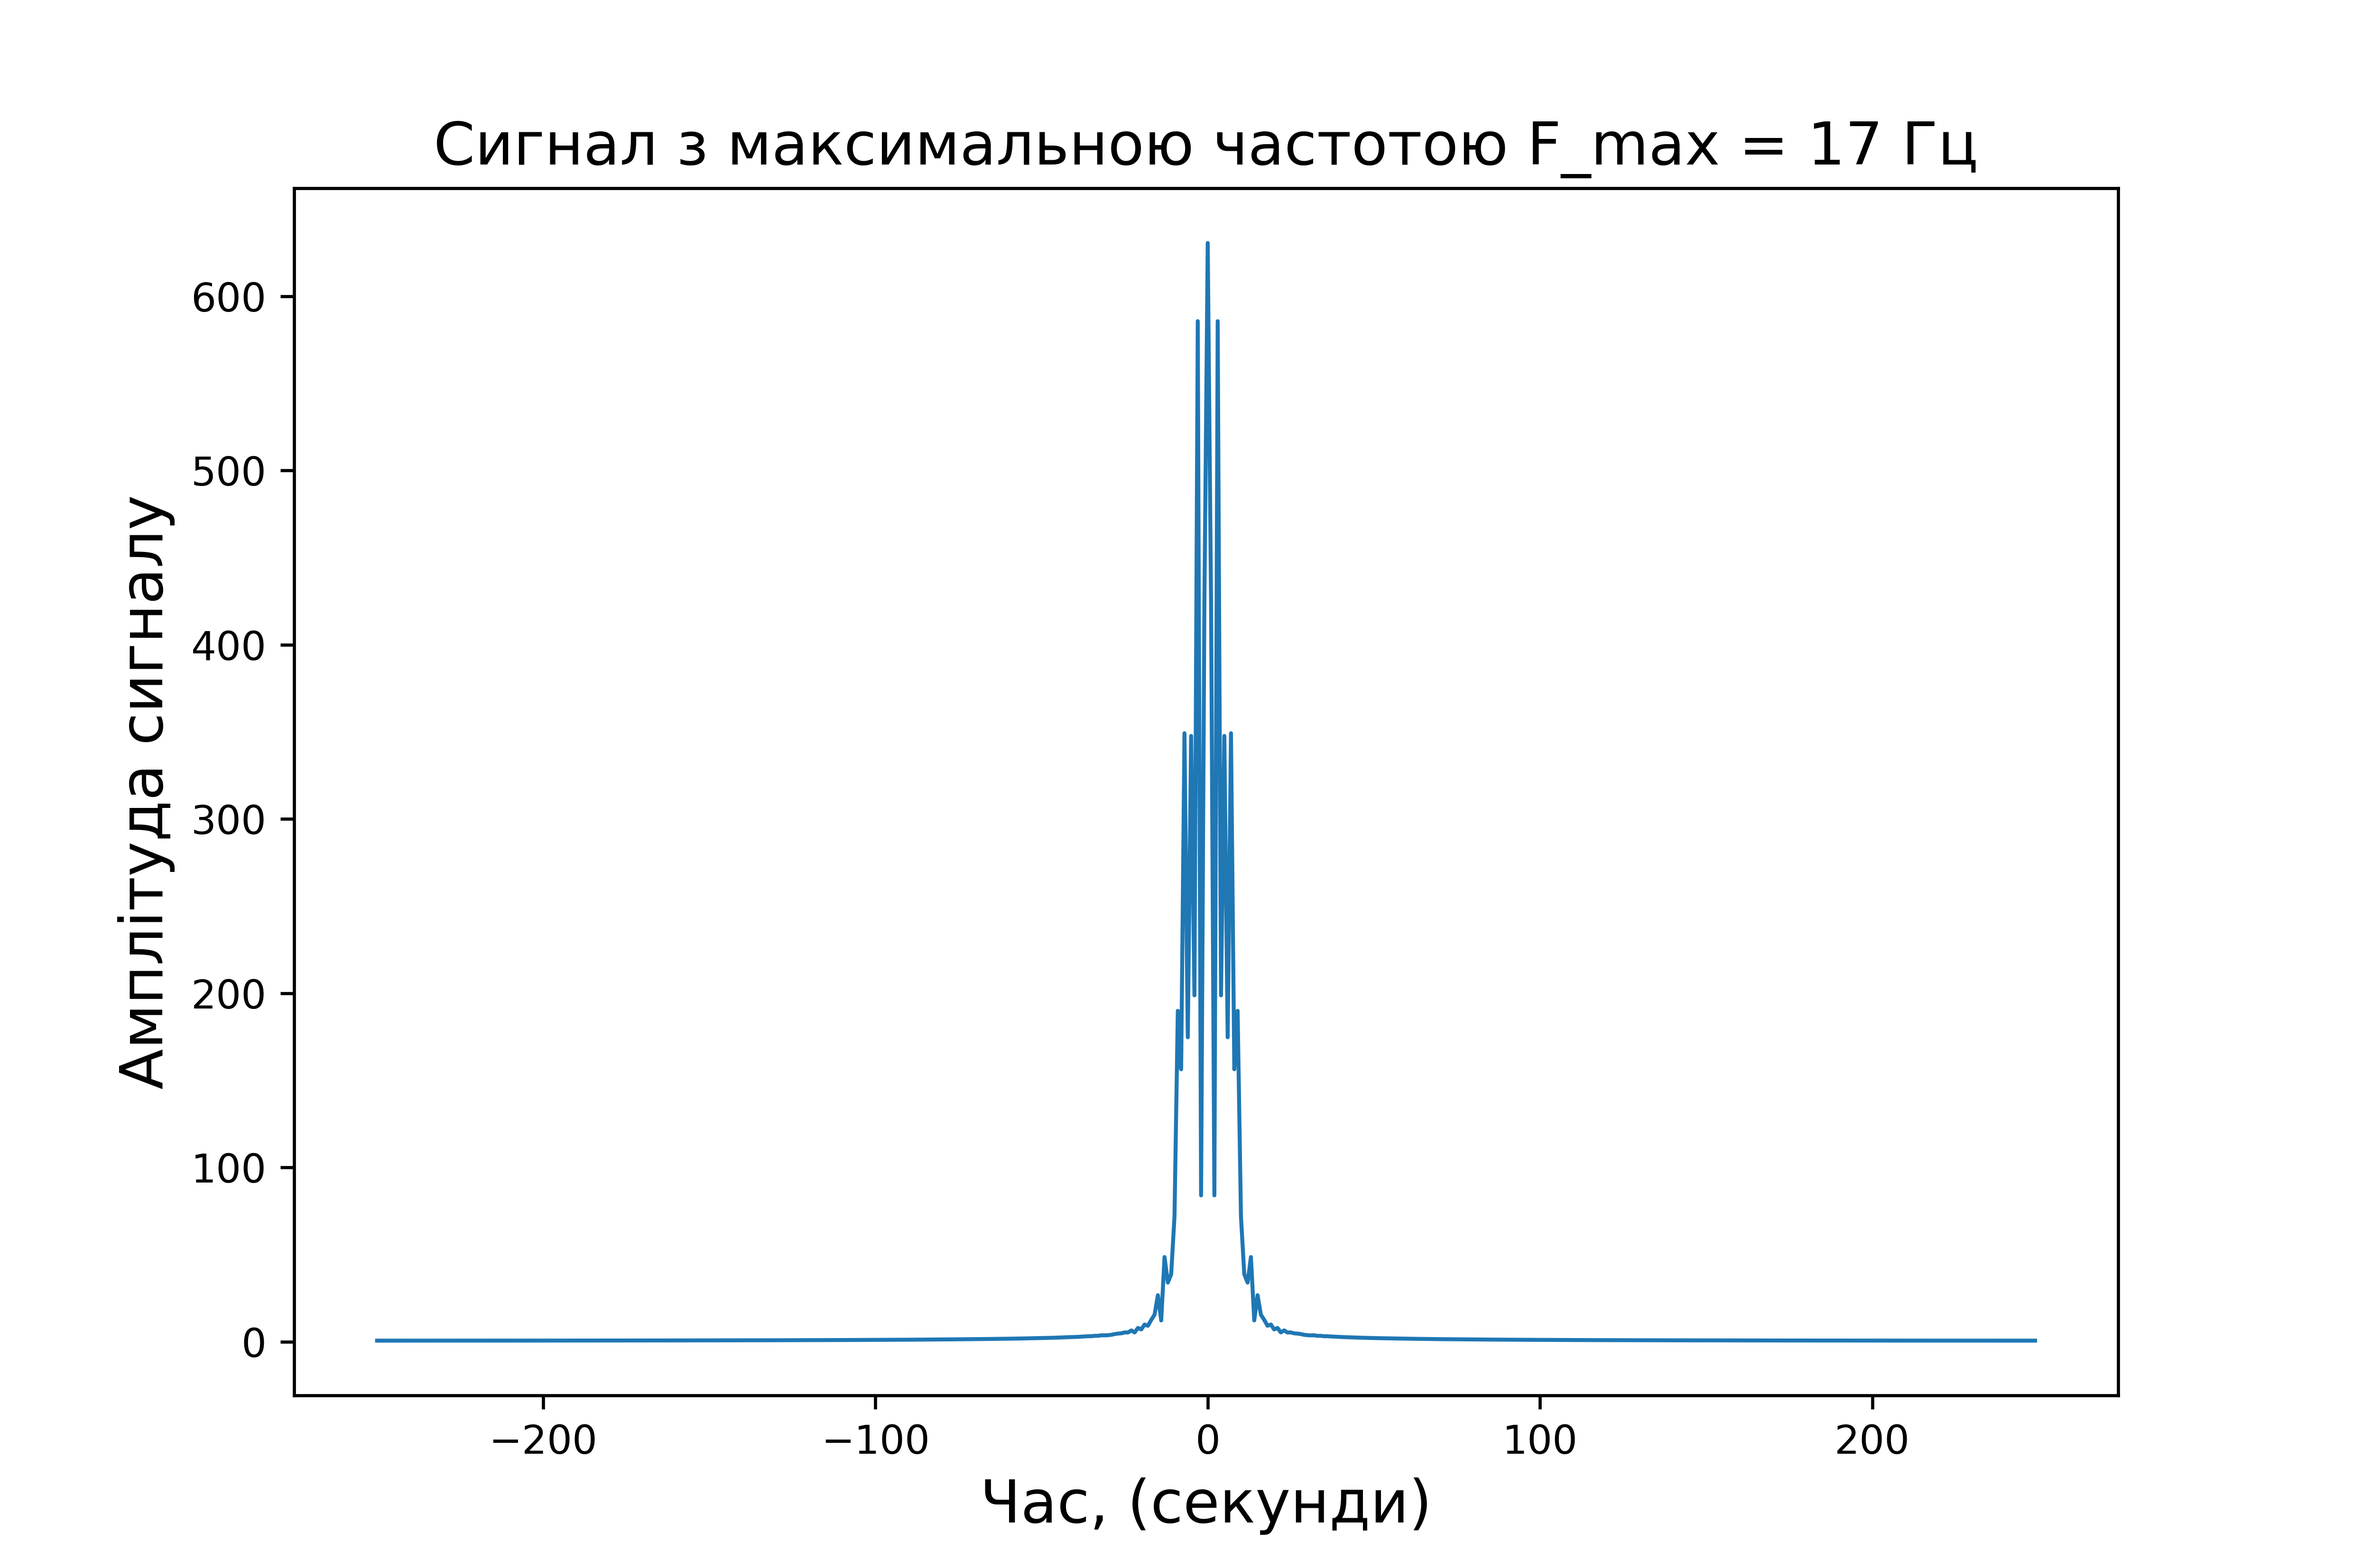
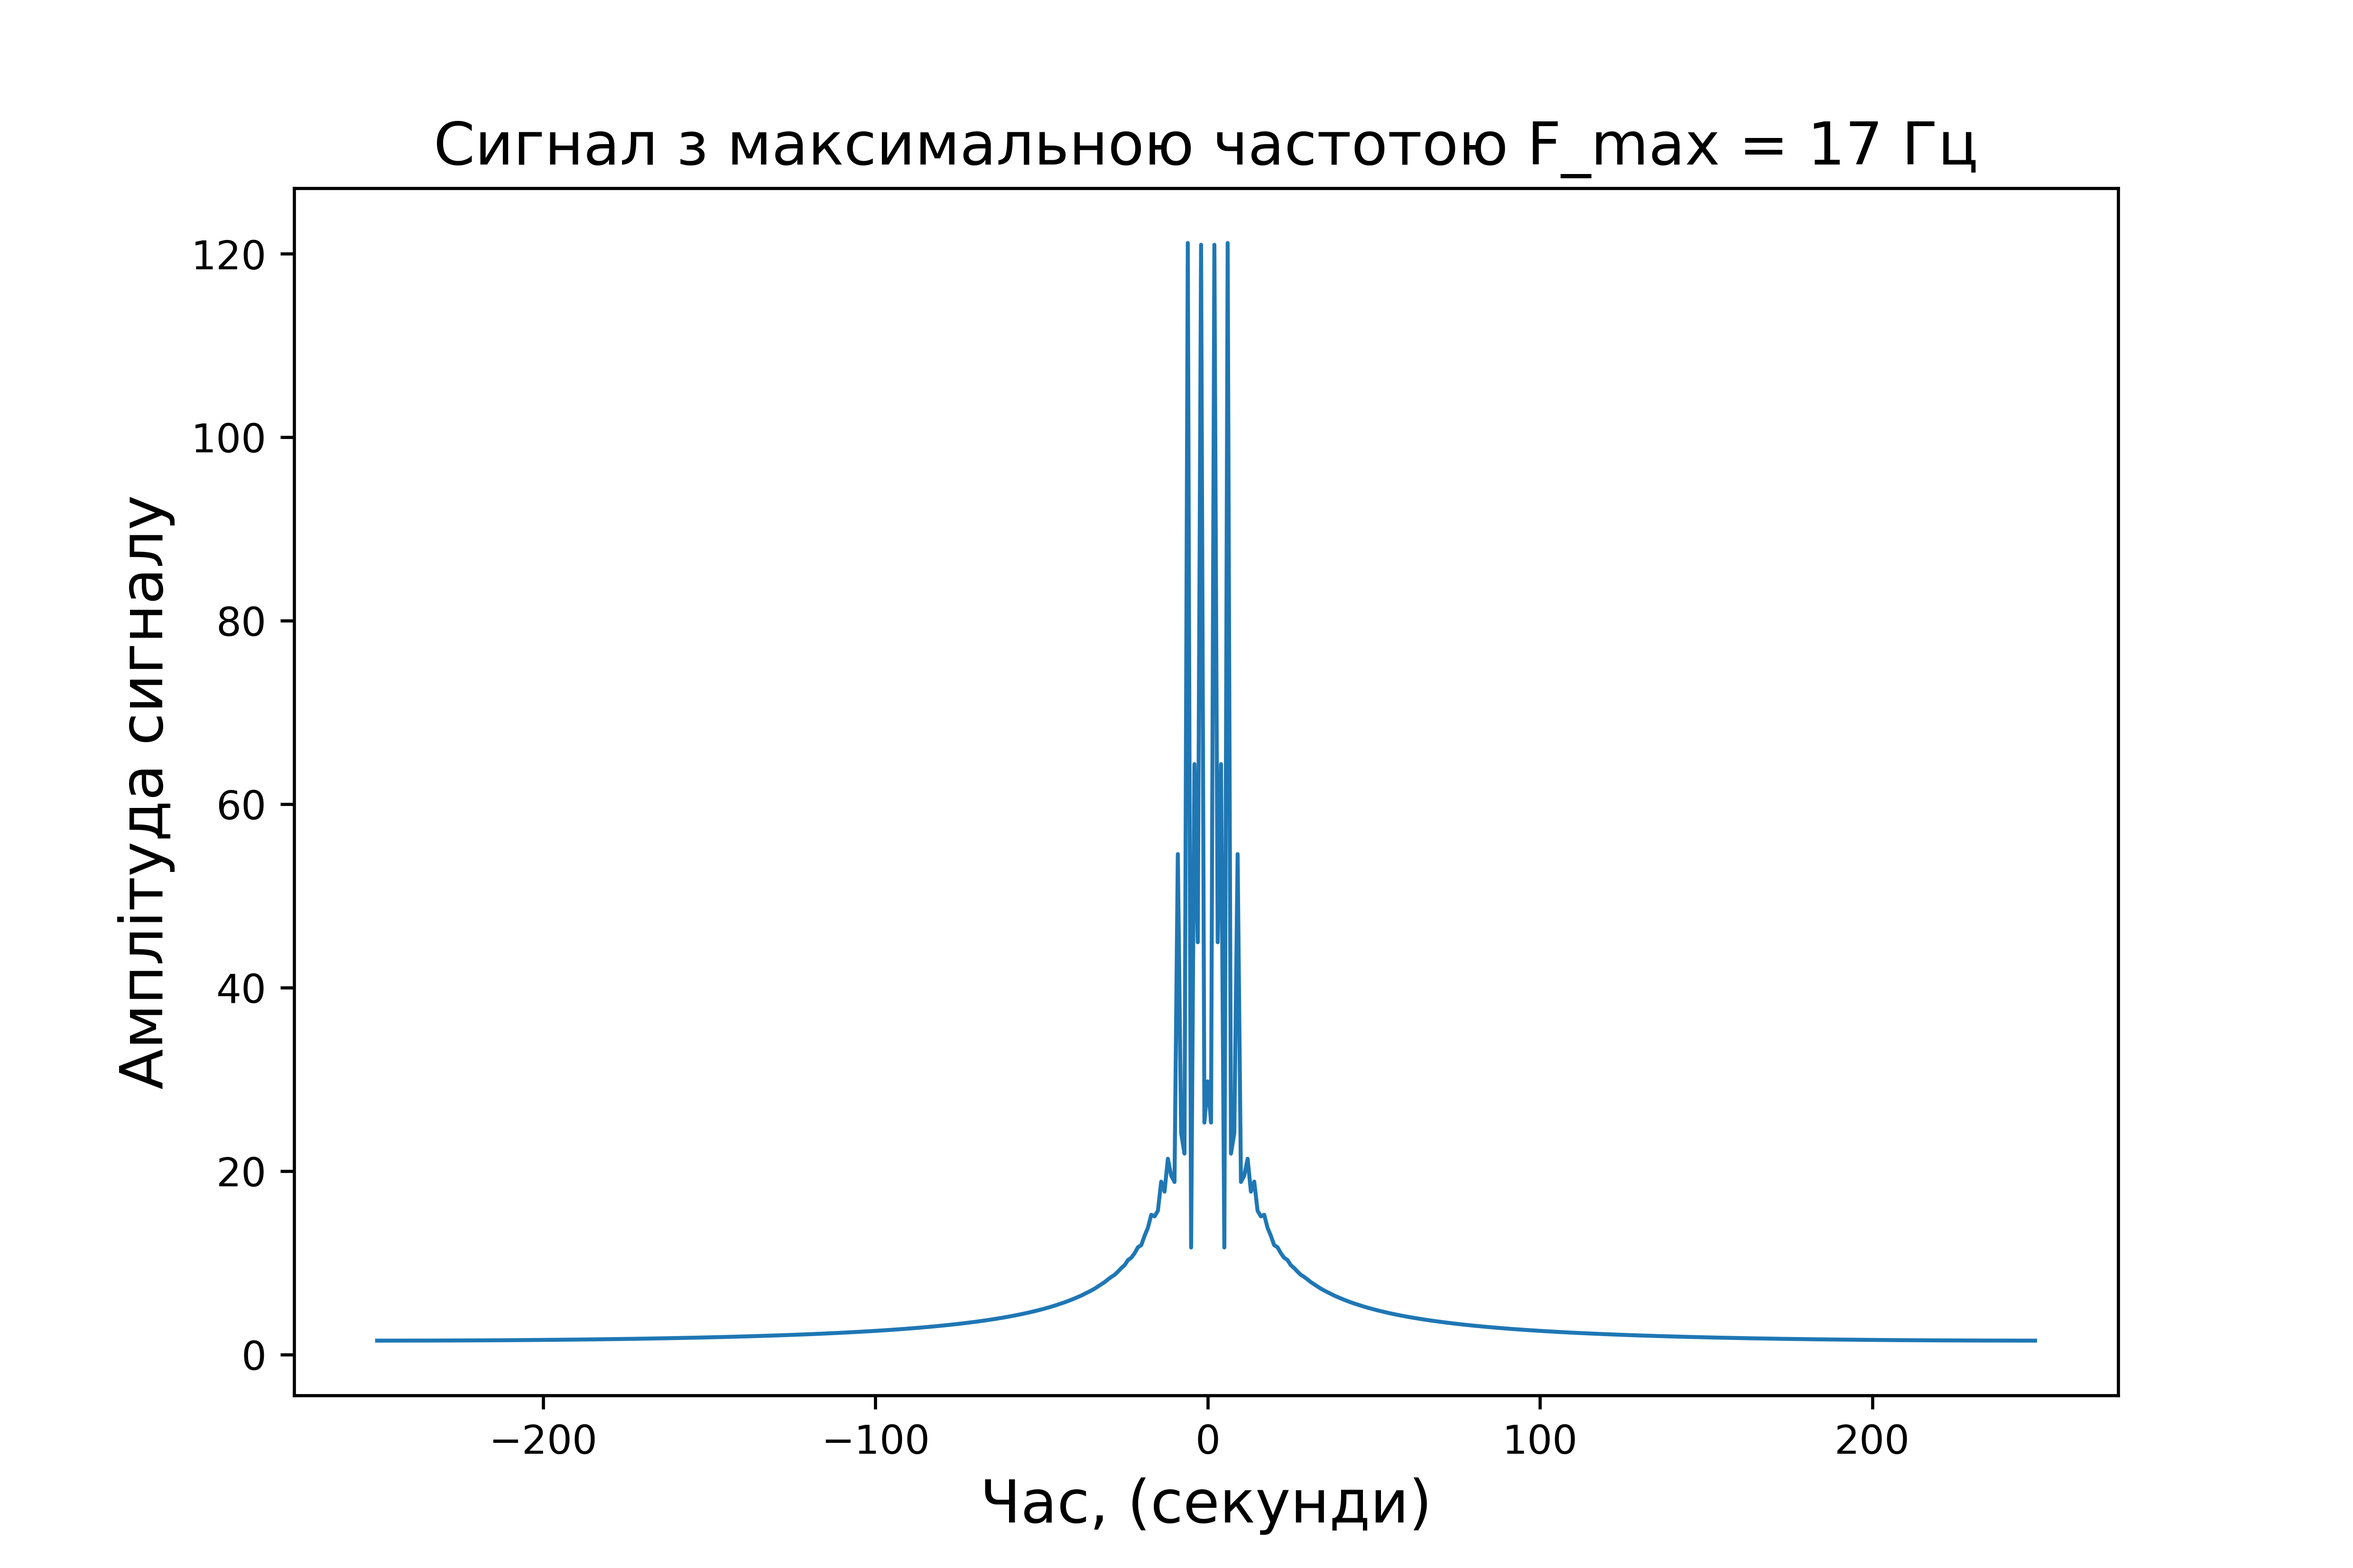
Signal processing, 2

diff --git a/SignalProcessing/SignalProcessing.py b/SignalProcessing/SignalProcessing.py
@@ -2,32 +2,133 @@ import numpy as np
 from scipy import signal, fft
 import matplotlib.pyplot as plt
 
-def draw_graph(data_y, data_x, title, x_label, y_label):
+def draw_graph(data_y, data_x, title, x_label, y_label, ylim=None):
     fig, ax = plt.subplots(figsize=(21/2.54, 14/2.54))
     ax.plot(data_x, data_y, linewidth=1)
     ax.set_xlabel(x_label, fontsize=15)
     ax.set_ylabel(y_label, fontsize=15)
+    if ylim is not None:
+        ax.set_ylim(ylim)
     plt.title(title, fontsize=15)
     fig.savefig('./figures/'+title+'.png', dpi=600)
 
+# Задані параметри
 n_points = 500
-random_data = np.random.normal(0, 15, n_points)
+random_data = np.random.uniform(-4, 4, n_points)
 sampling_freq = 1000
-
 max_frequency = 17
 nyquist_freq = sampling_freq / 2
+F_filter = 24
+
+# Фільтрація сигналу
 cutoff_freq = max_frequency / nyquist_freq
-
 filter_parameters = signal.butter(3, cutoff_freq, 'low', output='sos')
+time = np.arange(n_points) / sampling_freq
+filtered_data = signal.sosfiltfilt(filter_parameters, random_data)
 
+# Дискретизація сигналу та обчислення дисперсії
+step_sizes = [2, 4, 8, 16]
+variance_diff = []
+snr = []
+
+for Dt in step_sizes:
+    discrete_signal = np.zeros(n_points)
+    for i in range(0, round(n_points/Dt)):
+        discrete_signal[i * Dt] = filtered_data[i * Dt]
+    restored_signal = signal.sosfiltfilt(filter_parameters, discrete_signal)
+    difference = restored_signal - random_data
+    variance_diff.append(np.var(difference))
+    snr.append(np.var(random_data) / np.var(difference))
+
+# Побудова графіка залежності дисперсії від кроку дискретизації
+draw_graph(variance_diff, step_sizes, 'Залежність дисперсії від кроку дискретизації', 'Крок дискретизації', 'Дисперсія')
+
+# Побудова графіка залежності сигнал-шум від кроку дискретизації
+draw_graph(snr, step_sizes, 'Залежність сигнал-шум від кроку дискретизації', 'Крок дискретизації', 'Співвідношення сигнал-шум')
+
+# Побудова графіків дискретизованих сигналів з кривими залежностями
+discrete_signals = []
+discrete_curves = []
+for Dt in step_sizes:
+    discrete_signal = np.zeros(n_points)
+    discrete_curve = np.zeros(n_points)
+    for i in range(0, round(n_points/Dt)):
+        discrete_signal[i * Dt] = filtered_data[i * Dt]
+    discrete_signals.append(list(discrete_signal))
+    discrete_curve[:round(n_points/Dt)*Dt:Dt] = filtered_data[:round(n_points/Dt)*Dt:Dt]
+    discrete_curves.append(list(discrete_curve))
+
+# Побудова графіків дискретизованих сигналів з кривими залежностями
+fig, ax = plt.subplots(2, 2, figsize=(21/2.54, 14/2.54))
+s = 0
+for i in range(0, 2):
+    for j in range(0, 2):
+        ax[i][j].plot(time, discrete_curves[s], linewidth=1)
+        ax[i][j].set_xlabel('Час (секунди)', fontsize=15)
+        ax[i][j].set_ylabel('Амплітуда сигналу', fontsize=15)
+        ax[i][j].set_ylim(-4, 4)
+        s += 1
+fig.suptitle('Дискретизовані сигнали', fontsize=15)
+fig.savefig('./figures/Дискретизовані_сигнали.png', dpi=600)
+
+# Відновлення аналогового сигналу з дискретного
+restored_signals = []
+for discrete_signal in discrete_signals:
+    restored_signal = signal.sosfiltfilt(filter_parameters, discrete_signal)
+    restored_signals.append(restored_signal)
+
+# Побудова графіків відновлених аналогових сигналів
+fig, ax = plt.subplots(2, 2, figsize=(21/2.54, 14/2.54))
+s = 0
+for i in range(0, 2):
+    for j in range(0, 2):
+        ax[i][j].plot(time, restored_signals[s], linewidth=1)
+        ax[i][j].set_xlabel('Час (секунди)', fontsize=15)
+        ax[i][j].set_ylabel('Амплітуда сигналу', fontsize=15)
+        s += 1
+fig.suptitle('Відновлені аналогові сигнали', fontsize=15)
+fig.savefig('./figures/Відновлені_аналогові_сигнали.png', dpi=600)
+
+# Розрахунок та побудова спектрів сигналів
+fig, ax = plt.subplots(2, 2, figsize=(21/2.54, 14/2.54))
+s = 0
+for i in range(0, 2):
+    for j in range(0, 2):
+        spectrum = fft.fft(discrete_signals[s])
+        spectrum = np.abs(fft.fftshift(spectrum))
+        freq = fft.fftfreq(len(discrete_signals[s]), 1/n_points)
+        freq = fft.fftshift(freq)
+        if s == 0:
+            ax[i][j].set_xlim(-200, 200)
+            ax[i][j].set_ylim(0, 150)
+        elif s == 1:
+            ax[i][j].set_xlim(-200, 200)
+            ax[i][j].set_ylim(0, 80)
+        elif s == 2:
+            ax[i][j].set_xlim(-200, 200)
+            ax[i][j].set_ylim(0, 40)
+        elif s == 3:
+            ax[i][j].set_xlim(-200, 200)
+            ax[i][j].set_ylim(0, 20)
+        ax[i][j].plot(freq, spectrum, linewidth=1)
+        ax[i][j].set_xlabel('Частота (Гц)', fontsize=15)
+        ax[i][j].set_ylabel('Амплітуда спектра', fontsize=15)
+        s += 1
+fig.suptitle('Спектри дискретизованих сигналів', fontsize=15)
+
+# Побудова графіків спектра сигналу з максимальною частотою F_max = 17 Гц
 time = np.arange(n_points) / sampling_freq
 filtered_data = signal.sosfiltfilt(filter_parameters, random_data)
 draw_graph(filtered_data, time, 'Спектр сигналу з максимальною частотою F_max = 17 Гц', 'Частота (Гц)', 'Амплітуда спектру')
-plt.show()
 
+# Розрахунок та побудова спектру сигналу
 spectrum = fft.fft(filtered_data)
 spectrum = np.abs(fft.fftshift(spectrum))
 freq = fft.fftfreq(n_points, 1/n_points)
 freq = fft.fftshift(freq)
 draw_graph(spectrum, freq, 'Сигнал з максимальною частотою F_max = 17 Гц', 'Час, (секунди)', 'Амплітуда сигналу')
+
+fig.savefig('./figures/Спектри_дискретизованих_сигналів.png', dpi=600)
+# Показати графіки
 plt.show()
+
